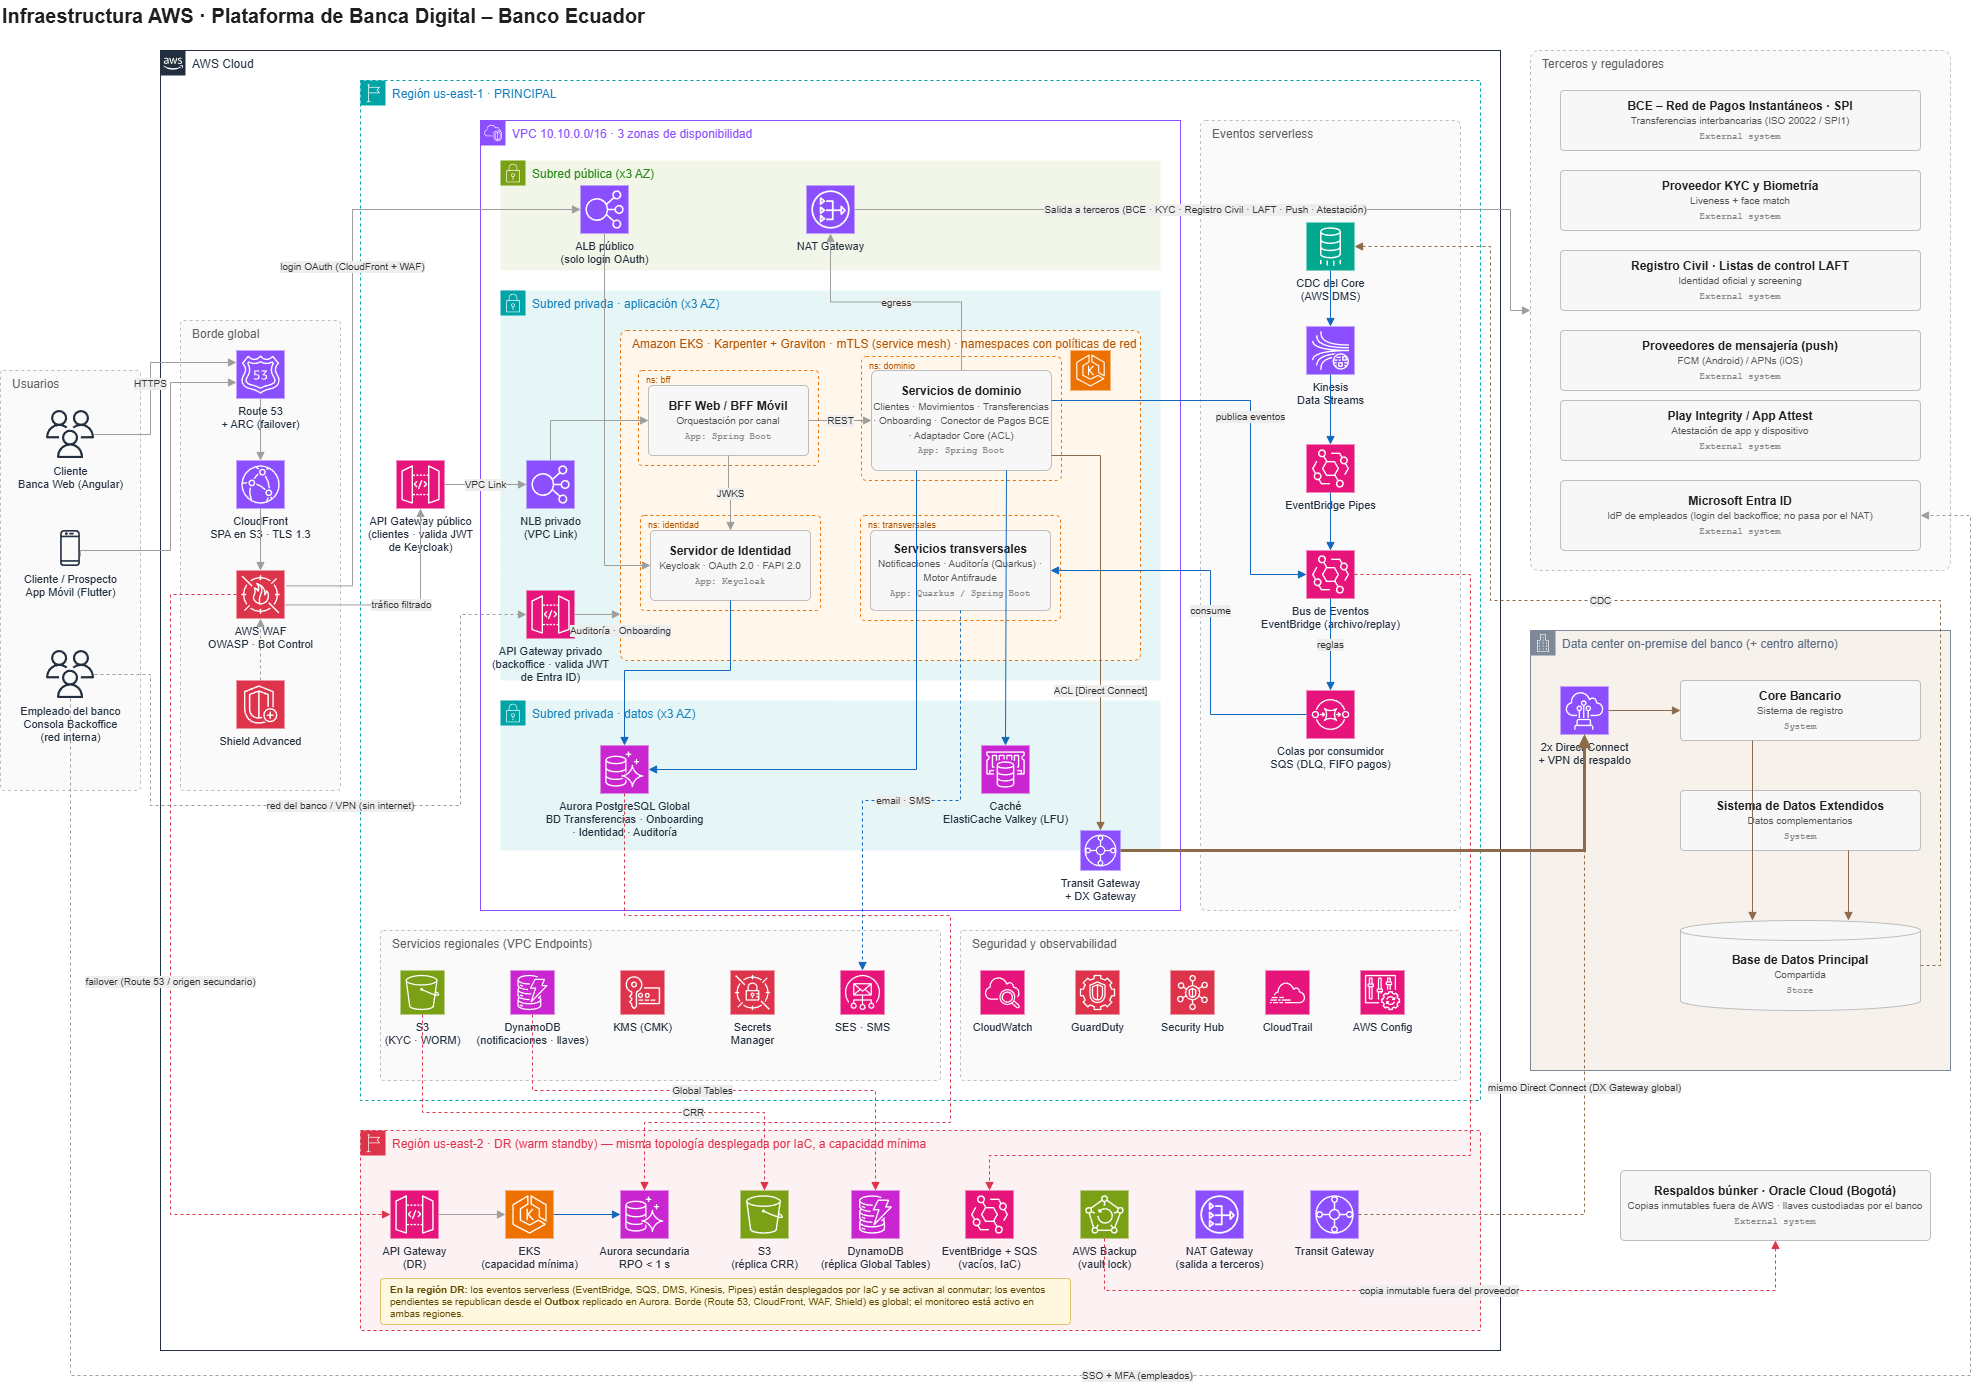
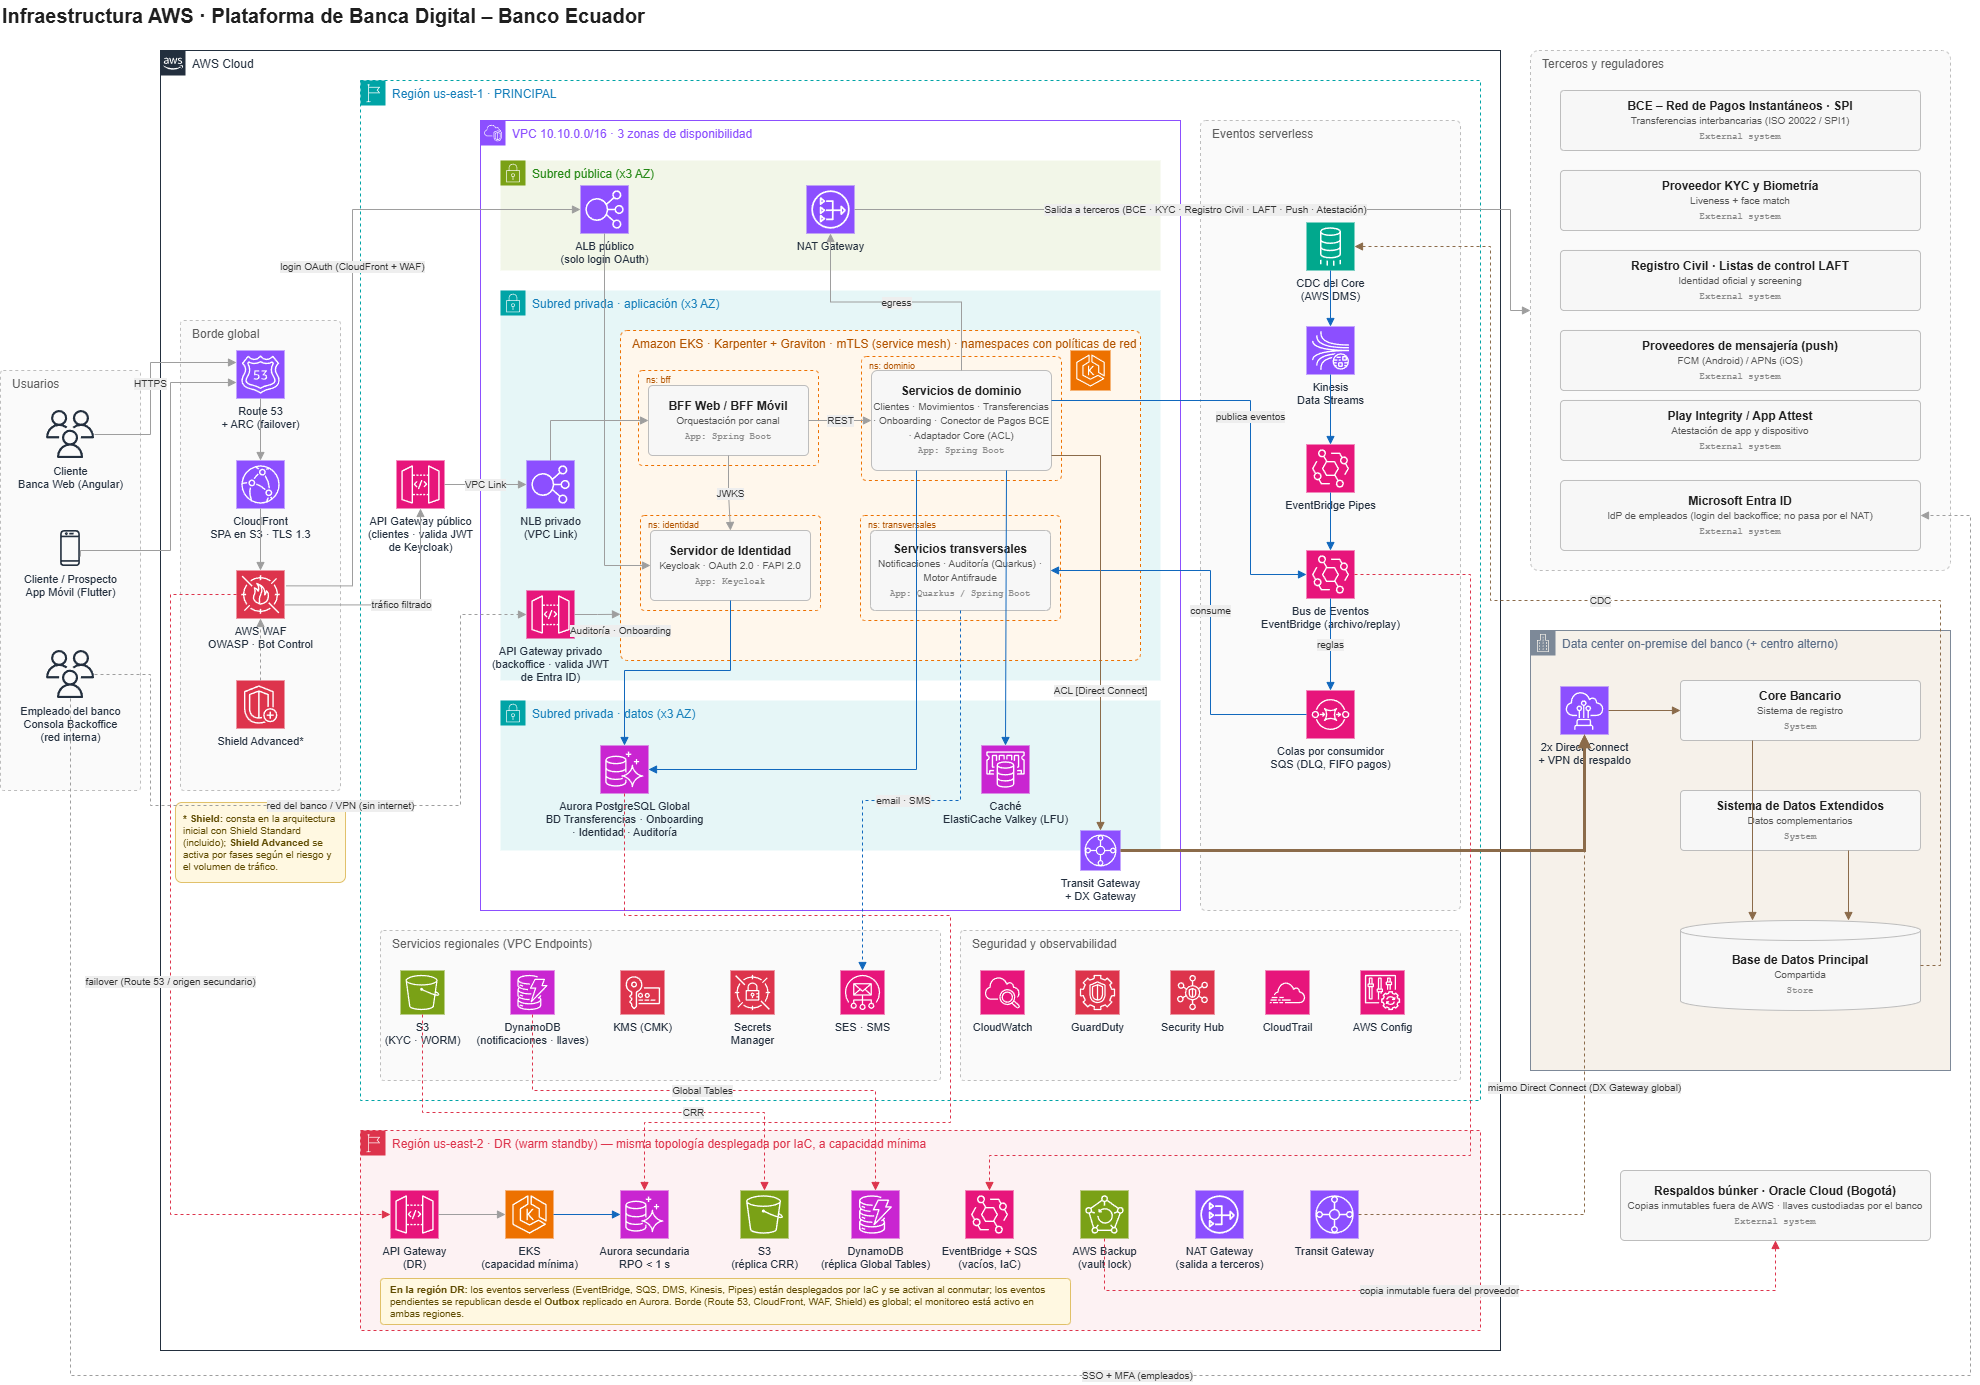
Refactor README for clarity and update AWS infrastructure diagram with additional details

diff --git a/README.md b/README.md
@@ -1,6 +1,8 @@
 # Plataforma de banca digital - Banco Ecuador
 
-Mi propuesta para el reto técnico de Arquitecto de Soluciones. El objetivo es una plataforma de banca en línea (web y móvil) donde los clientes consulten sus movimientos, hagan transferencias propias e interbancarias, y donde una persona nueva pueda abrir su cuenta desde el celular con reconocimiento facial.
+Propuesta para el reto técnico de Arquitecto de Soluciones. 
+
+El objetivo es una plataforma de banca en línea (web y móvil) donde los clientes consulten sus movimientos, hagan transferencias propias e interbancarias, y donde una persona nueva pueda abrir su cuenta desde el celular con reconocimiento facial.
 
 Modelo C4 navegable en IcePanel: https://s.icepanel.io/8it5iVKhNeTy2G/qBcE
 
